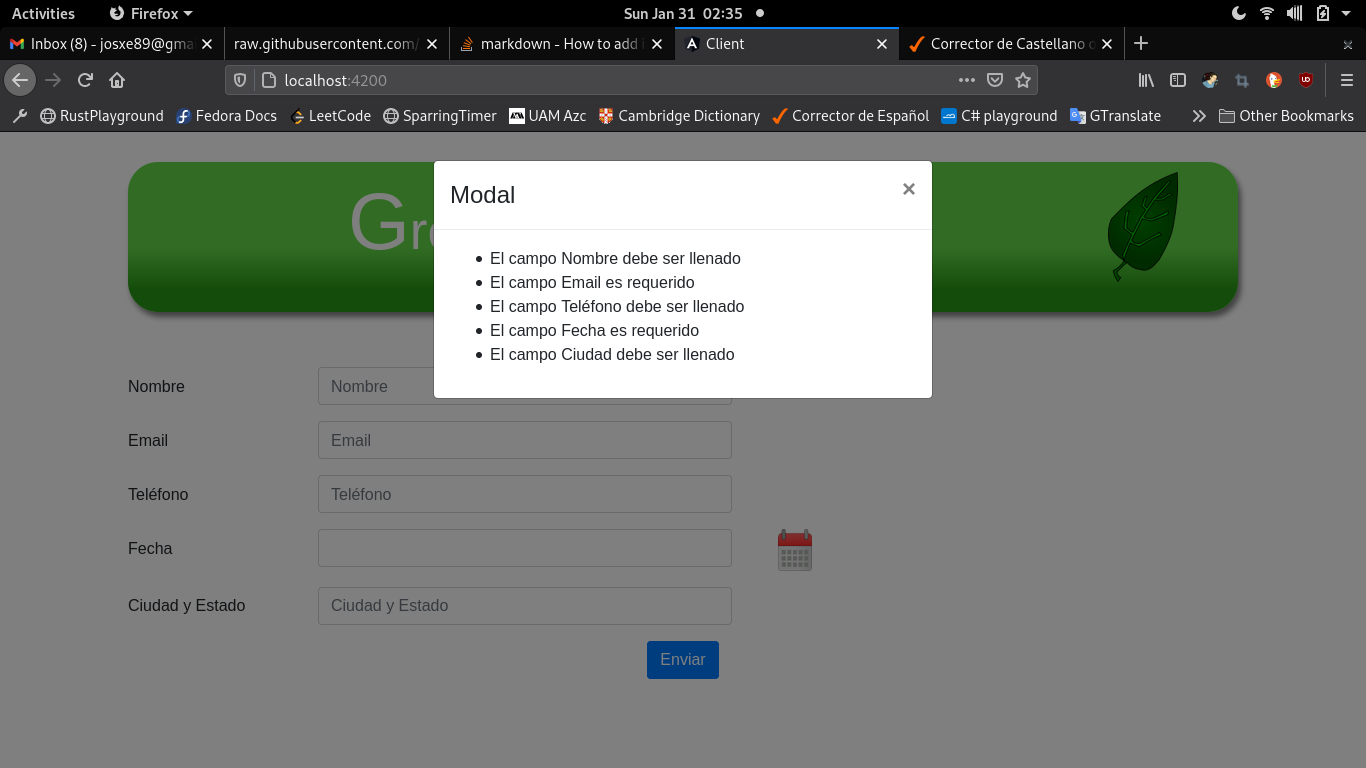
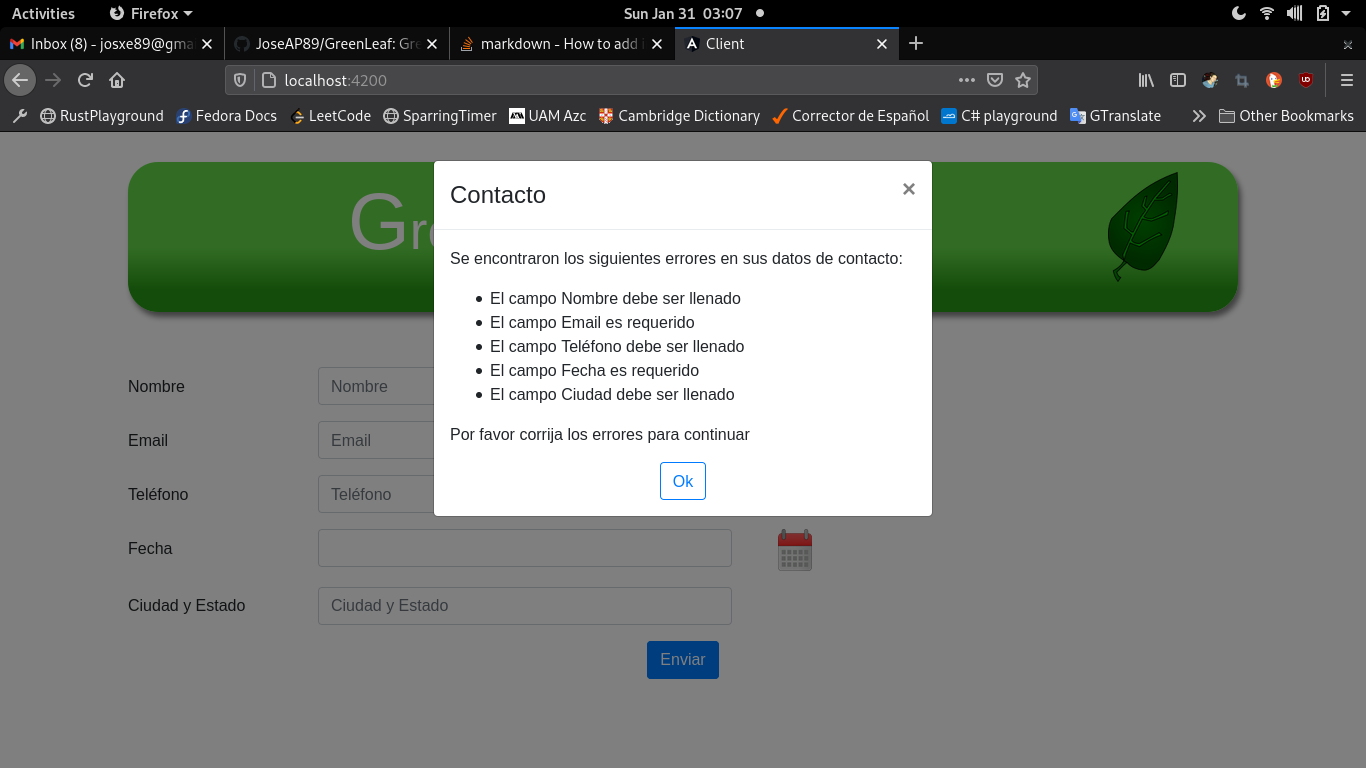
README.md v2.2

diff --git a/client/src/app/info-form/info-form.component.html b/client/src/app/info-form/info-form.component.html
@@ -58,15 +58,20 @@
       
   <ng-template #template>
     <div class="modal-header">
-      <h4 class="modal-title pull-left">Modal</h4>
+      <h4 class="modal-title pull-left">Contacto</h4>
       <button type="button" class="close pull-right" aria-label="Close" (click)="modalRef.hide()">
         <span aria-hidden="true">&times;</span>
       </button>
     </div>
     <div class="modal-body">
+      <p>Se encontraron los siguientes errores en sus datos de contacto:</p>
       <ul>
         <li *ngFor="let err of errors">{{err}}</li>
       </ul>
+      <p>Por favor corrija los errores para continuar</p>
+      <div class="btnCloseModal">
+        <button (click)="modalRef.hide()" class="btn btn-outline-primary">Ok</button>
+      </div>
     </div>
   </ng-template>
 </div>

diff --git a/client/src/app/info-form/info-form.component.css b/client/src/app/info-form/info-form.component.css
@@ -51,3 +51,9 @@ form hr {
     font-weight: bold;
     font-style: italic;
 }
+
+.modal-body .btnCloseModal {
+    display: flex;
+    align-items: center;
+    justify-content: center;
+}
